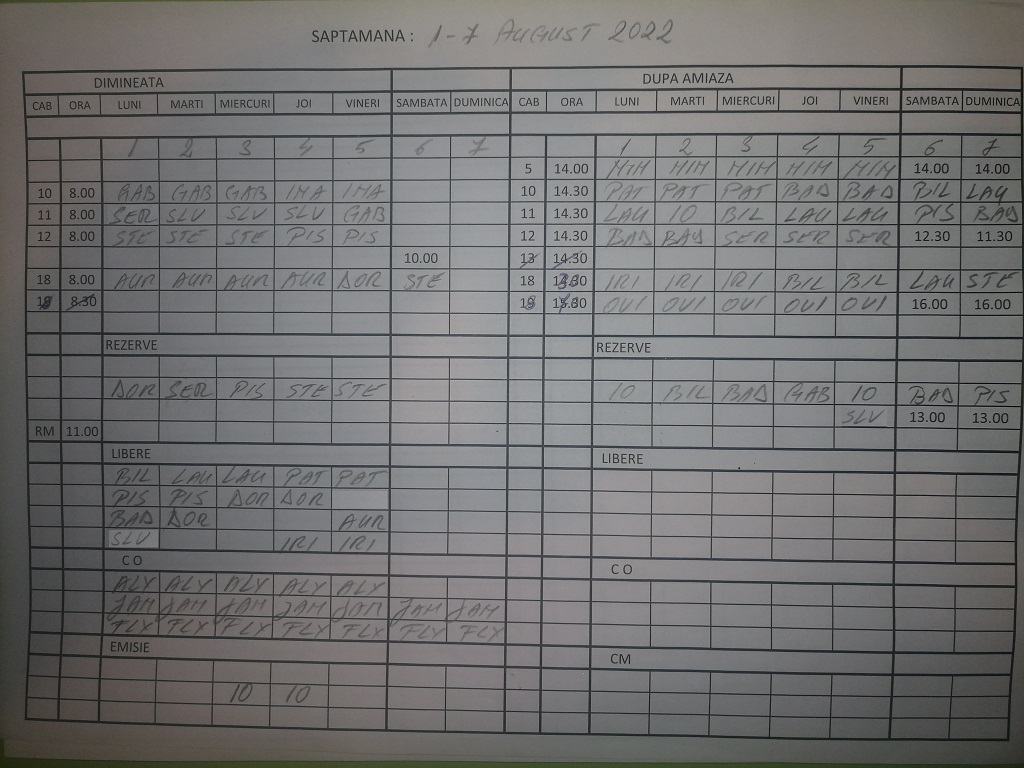
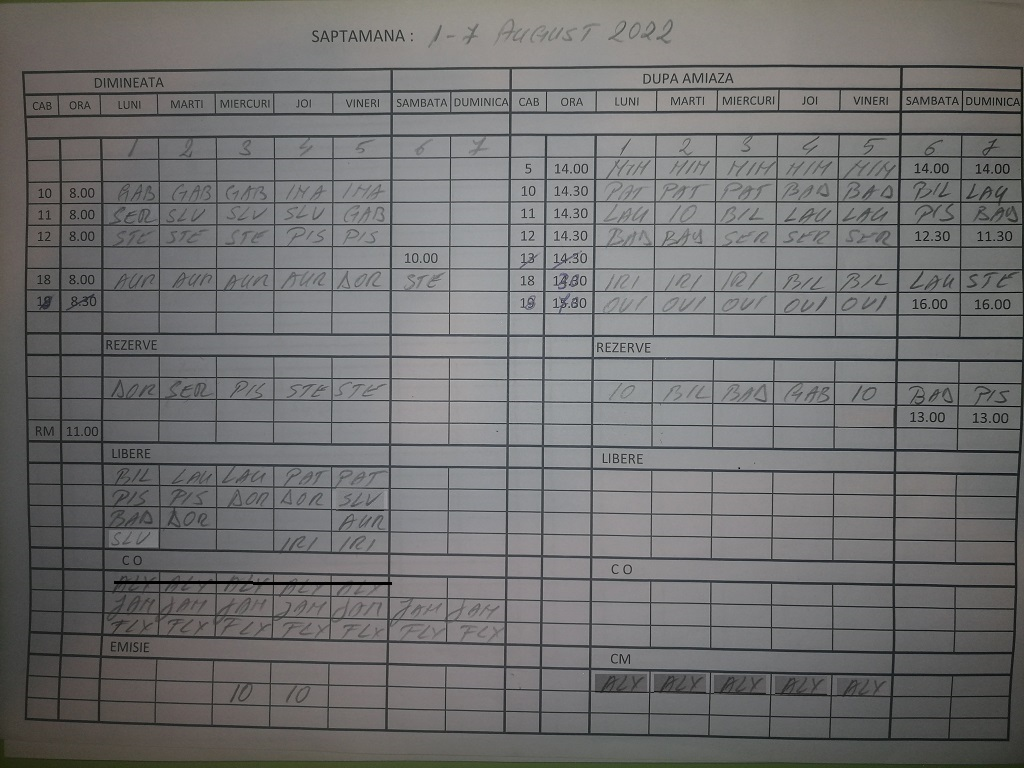
medical  alex

diff --git a/index.html b/index.html
@@ -28,8 +28,8 @@
       ><h1>Click aici ca sa va calculati salariul.</h1></a
     >
 
-    <h3>18 - 24 Iulie 2022</h3>
-    <img src="foto/18-24_iulie.jpg" alt="18-24 Iulie" /><br /><br />
+    <!-- <h3>18 - 24 Iulie 2022</h3>
+    <img src="foto/18-24_iulie.jpg" alt="18-24 Iulie" /><br /><br /> -->
     <h3>25 - 31 Iulie 2022</h3>
     <img src="foto/25-31_iulie.jpg" alt="25-31 Iulie" /><br /><br />
     <h3>1 - 7 August 2022</h3>
@@ -43,8 +43,10 @@
     <h3>29 - 31 August 2022</h3>
     <img src="foto/29-august.jpg" alt="29 - 31 August 2022" /><br /><br />
 
-    <!-- <script>
-      alert();
-    </script> -->
+    <script>
+      alert(
+        "Pe 5.08 Silvia e inapoi libera, vine luni 10.08 rezerva dupa-masa. in zilele 1-5 Alex nu mai e in CO, este in CM. In zilele de 8-12 Alex este in CO, nu mai e pe cabina. In locul ei, in cabina 18, tura de mijloc este luni Ninu, marti Irina, miercuri Laura si joi Silvia. Evident, vineri Alexandra nu mai e rezerva. Rezerva dupa-masa vor fi luni Silvia, care nu mai e libera, marti Ninu, apoi miercuri Gabi si joi eu, care nu vom mai fi rezerve dimineata."
+      );
+    </script>
   </body>
 </html>
